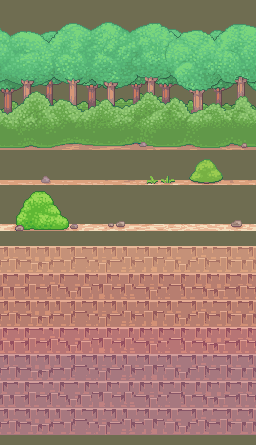
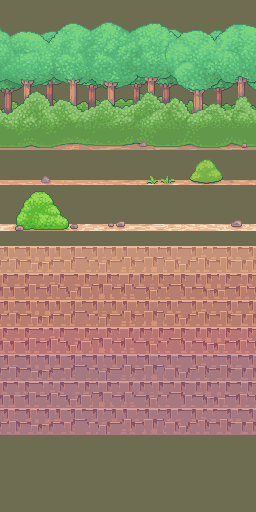
Made bg-trees1.png POT, added SDL_WM_SetCaption call

diff --git a/src/main.cpp b/src/main.cpp
@@ -178,6 +178,8 @@ extern "C" int main(int argc, char** argv)
 		std::cerr << "could not set video mode\n";
 		return -1;
 	}
+	
+	SDL_WM_SetCaption("Frogatto", "Frogatto");
 
 	std::cerr << "JOYSTICKS: " << SDL_NumJoysticks() << "\n";
 
